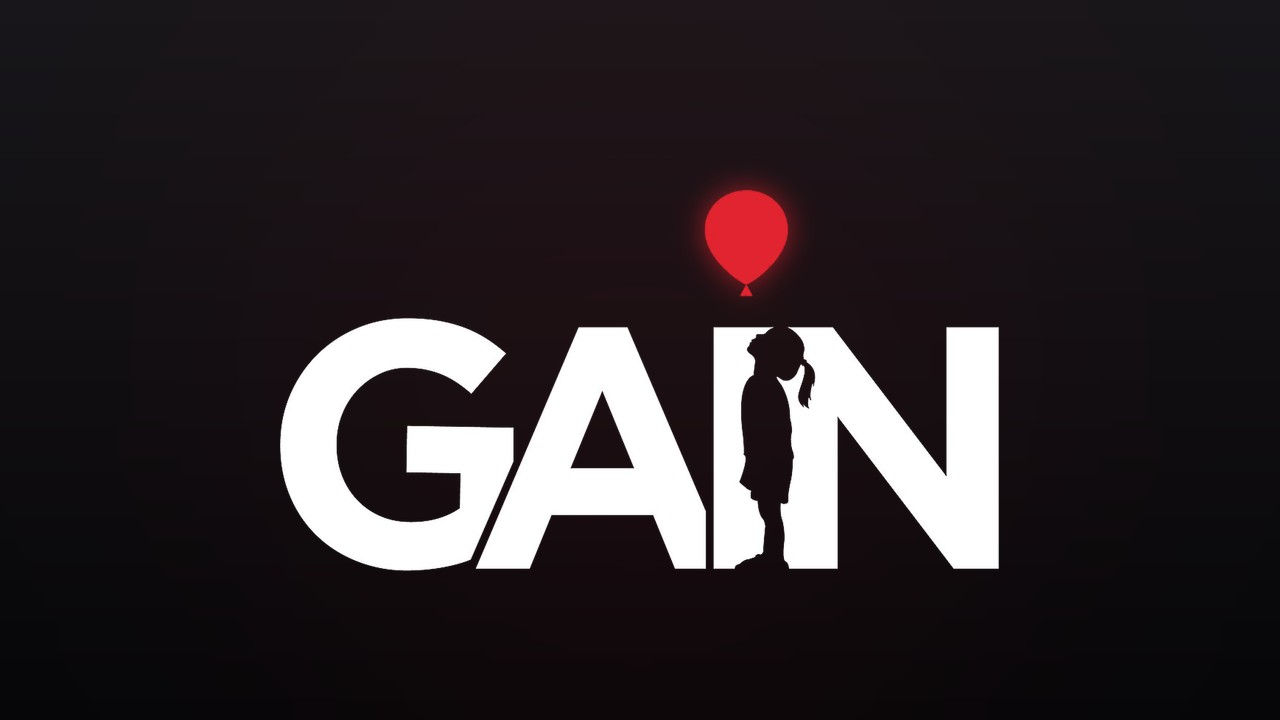
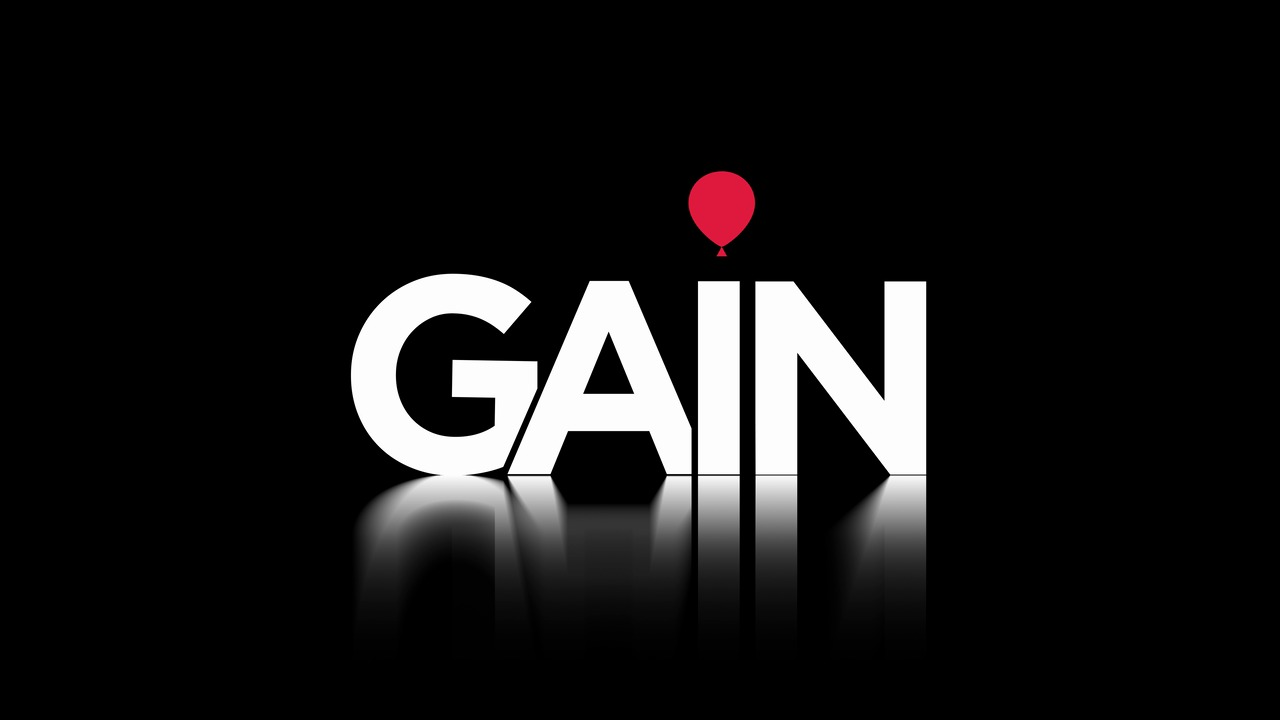
Exxen, GAİN, tabii: covers and hovers from the platforms' own idents
Claude-Session: https://claude.ai/code/session_01QqcAdMGokHGeFf5PAk1q99

diff --git a/art/folders/streaming-services/README.md b/art/folders/streaming-services/README.md
@@ -1,0 +1,7 @@
+Streaming Services row, Turkish platforms.
+Exxen, GAİN and tabii: cover.jpg and hover.webp come from each platform's own splash ident (supplied by Ozzy:
+EXXEN alternative intro, GAİN TV splash 4K, tabii splash), rendered by nuvio-awards/art_tools/streaming_idents.py:
+  python3 art_tools/streaming_idents.py <video dir> <out dir>
+The hover is the ident itself (black tails trimmed, Exxen's logo hold shortened, tabii framed closer), the cover is
+the ident's held logo frame. backdrop.jpg and logo.png are unchanged (art_tools/streaming_tr.py).
+hbo-max/cover.jpg: the current (2025) HBO Max wordmark (art_tools/streaming_tr.py).
